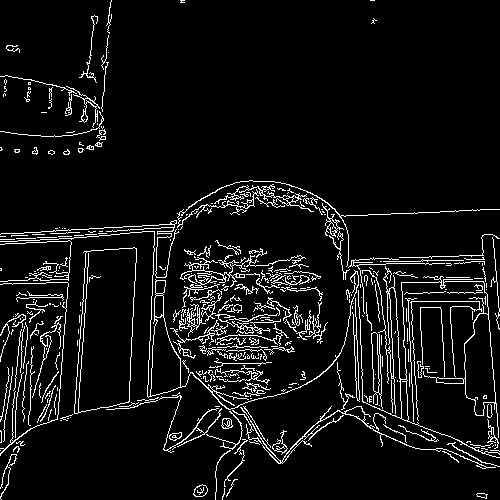
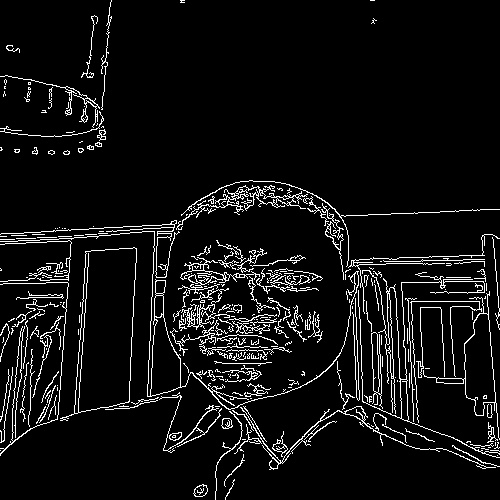
FEA add more OpenCv functions

diff --git a/Basic_OpenCVC_functions_CV.py b/Basic_OpenCVC_functions_CV.py
@@ -14,8 +14,8 @@ imgGray = cv2.cvtColor(img, cv2.COLOR_RGB2GRAY)
 cv2.imwrite("Results/GraySca_image.jpg", imgGray)
 
 
-#**************** Image Blurring ********************
 
+#**************** Image Blurring ********************
 # Apply Gaussian blur
 imgBlurred = cv2.GaussianBlur(img, (11, 11), 0)
 
@@ -38,7 +38,6 @@ cv2.imwrite("Results/Resized_image.jpg", imgResized)
 
 
 #**************** Image Rotation ********************
-
 #Get image height and width
 (h, w) = img.shape[:2]
 #Compute the center of the image
@@ -53,10 +52,14 @@ rotated_image = cv2.warpAffine(img, mg, (w, h))
 # Save the reuslt
 cv2.imwrite("Results/Rotated_image.jpg", rotated_image)
 
-#**************** Image Thresholding ********************
 
+
+
+#**************** Image Thresholding ********************
 # Apply image thresholding
-reth, thresh = cv2.threshold(img, 120, 255, cv2.THRESH_BINARY)
+threshold_lower = 110
+threshold_upper = 225
+reth, thresh = cv2.threshold(imgGray, threshold_lower, threshold_upper, cv2.THRESH_BINARY)
 
 # Display the threshold image
 #cv2.imshow("Thresholded image", thresh)
@@ -64,26 +67,29 @@ reth, thresh = cv2.threshold(img, 120, 255, cv2.THRESH_BINARY)
 cv2.imwrite("Results/Thresholded_image.jpg", thresh)
 
 
-#**************** Edge Detection ********************
 
+
+#**************** Edge Detection ********************
 # Apply canny edge detection
-edge = cv2.Canny(img, 30, 100)
+edges = cv2.Canny(imgGray, 30, 100)
 
 # Display the edge
-#cv2.imshow("Detected Edge", edge)
+#cv2.imshow("Detected Edge", edges)
+
 # Save the reuslt
-cv2.imwrite("Results/Edge_detection Image.jpg", edge)
+cv2.imwrite("Results/Edge_detection Image.jpg", edges)
+
+
 
 #**************** Image Filtering ********************
-
 # Create a kernel
 Kernel = np.ones((5,5), np.float32)/25
 
 # Apply the kernel to the image
-filteredImage = cv2.filter2D(img, -0, Kernel)
+filteredImage = cv2.filter2D(img, -1, Kernel)
 
 # Display the edge
-cv2.imshow("Filtered Image", filteredImage)
+#cv2.imshow("Filtered Image", filteredImage)
 # Save the reuslt
 cv2.imwrite("Results/Filtered_Image.jpg", filteredImage)
 
@@ -111,7 +117,7 @@ img2 = cv2.drawMatches(img, kp1, img1, kp2, matches[:0], None, flags=2)
 
 
 # Display the edge
-cv2.imshow("Feature Matching", img2)
+#cv2.imshow("Feature Matching", img2)
 # Save the reuslt
 cv2.imwrite("Results/Feature_Matching.jpg", img2)
 
@@ -119,13 +125,85 @@ cv2.imwrite("Results/Feature_Matching.jpg", img2)
 
 
 
+#**************** Image dilation and Erosion ********************
+# dilation and erosion are morphological operation that are useful in removing noise such as small
+# holes or black sport from binary image
+
+# Apply image thresholding
+threshold_lower = 127
+threshold_upper = 225
+reth, binary_image = cv2.threshold(imgGray, threshold_lower, threshold_upper, cv2.THRESH_BINARY)
+
+#Define the structuring element
+kernel = np.ones((5,5), np.uint8)
+
+# perform dialation
+dialated_image = cv2.dilate(binary_image, kernel, iterations=1)
+
+# perform erosion
+eroded_image = cv2.erode(binary_image, kernel, iterations=1)
+
+# Display the dialated and eroded image
+#cv2.imshow("Dialated image", dialated_image)
+#cv2.imshow("Eroded image", eroded_image)
+
+# Save the reuslt
+cv2.imwrite("Results/dialated_image.jpg", dialated_image)
+cv2.imwrite("Results/eroded_image.jpg", eroded_image)
 
 
 
 
+#**************** Image Pyramids ********************
+# image pyramids fnd application in up or down image scaling, blending,
+# reconstruction and texture synthesis.
+
+#create Gaussian pyramid
+Mg = img.copy()
+mgs = [Mg]
+for i in range(8):
+    Mg = cv2.pyrDown(Mg)
+    mgs.append(Mg)
+
+# Display the image in the Gaussian pyramid
+#for i in range(4):
+    #cv2.imshow("Gaussian pyramind Level" + str(i), mgs[i])
+
+
+#**************** Image Gradients ********************
+# Image gradients are useful for the edges image highlighting
+
+#Calculates the x and y gradients using Sobel operator
+gradX = cv2.Sobel(imgGray, cv2.CV_64F, 1, 0, ksize=5)
+gradY = cv2.Sobel(imgGray, cv2.CV_64F, 1, 0, ksize=5)
+
+# Display the x and y gradients
+#cv2.imshow("gradients X", gradX)
+#cv2.imshow("gradients Y", gradY)
+# Save the reuslt
+cv2.imwrite("Results/X_Gradient_Image.jpg", gradX)
+cv2.imwrite("Results/Y_Gradient_Image.jpg", gradY)
+
+
+#**************** Histogram Equalization ********************
+# Histogram equalization is useful for improving the contrast of the images
+
+#Apply histogram equalization
+his_equalised = cv2.equalizeHist(imgGray)
+
+# Display equalised image
+cv2.imshow("Equalised Image", his_equalised)
+# Save the reuslt
+cv2.imwrite("Results/Equalised_Image.jpg", his_equalised)
 
 
 
+
+#**************** Histogram Equalization ********************
+# Histogram equalization is useful for improving the contrast of the images
+
+#Apply histogram equalization
+his_equalised = cv2.equalizeHist(imgGray)
 
 
 
